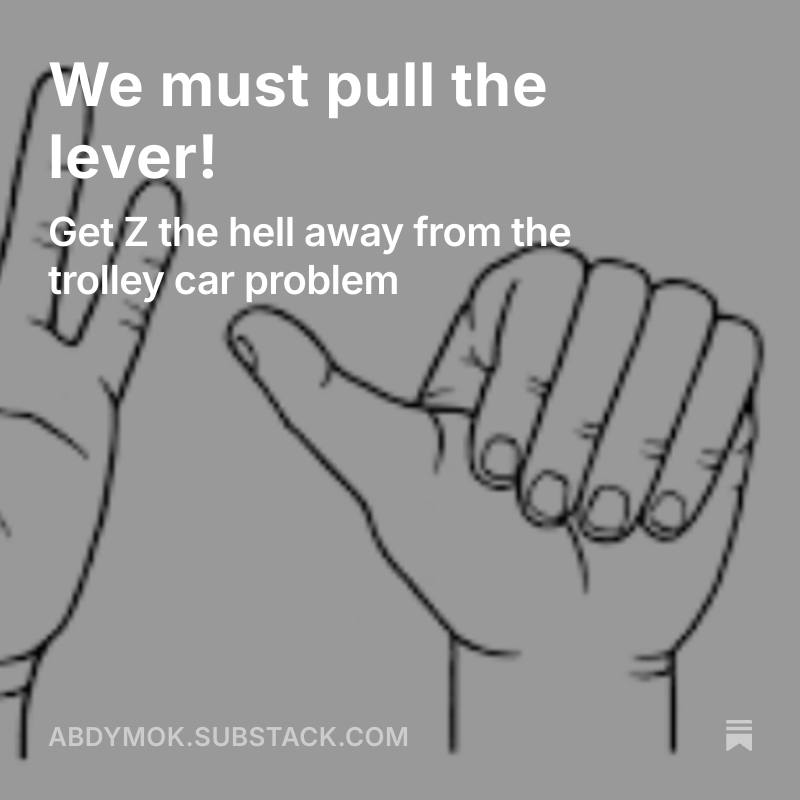
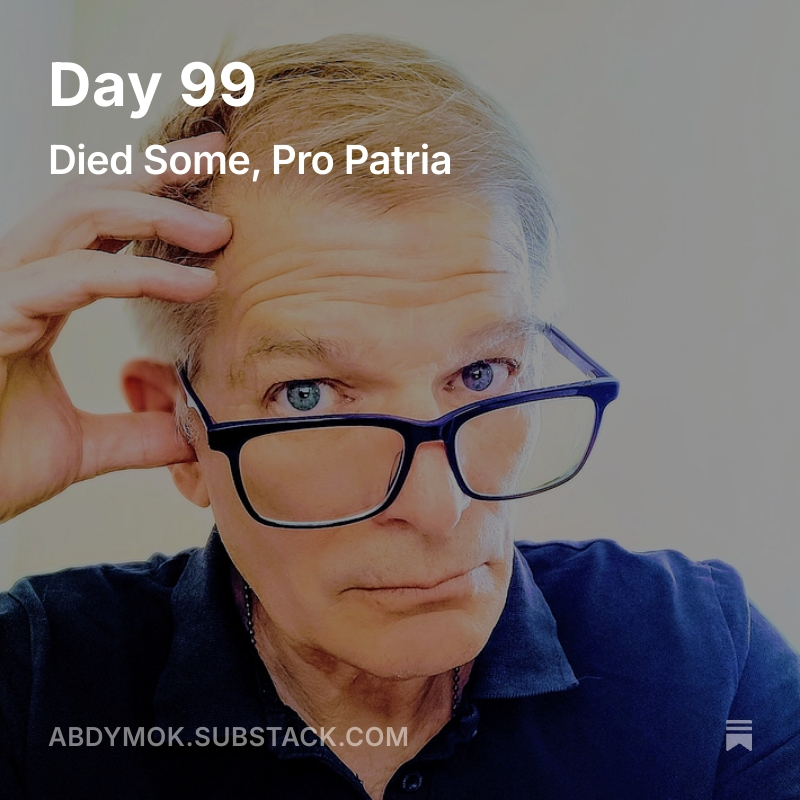
Replace shared Pro Patria asset

diff --git a/index.html b/index.html
@@ -49,7 +49,7 @@ body{font-family:Spectral,Georgia,serif;overflow:hidden}
 <div class="intro" id="intro"><img src="images/abdymok.gif" alt="abdymok"></div><div class="mural"><div class="wall" id="wall"></div></div>
 <div class="controls"><button id="recompose" class="recompose" type="button">Recompose</button><button id="pause" class="pause" type="button">Pause</button><a class="subscribe" href="https://abdymok.substack.com/" target="_blank" rel="noopener noreferrer">Subscribe</a></div>
 <script>
[1 lines of base64/hex data omitted]
+const slides=[{"id": 1, "year": 2022, "image": "images/1.jpg", "back": "Delivers an unpanicked, sober reading of invasion signals on the very first morning of the <a href=\"https://abdymok.substack.com/p/russias-further-invasion-day-1\" target=\"_blank\" rel=\"noopener noreferrer\" data-slide=\"1\">full-scale war<\/a>, cutting through media buzzwords."}, {"id": 2, "year": 2021, "image": "images/2.jpg", "back": "Warned as early as <a href=\"https://abdymok.substack.com/p/banal-murder-plot?utm_source=publication-search\" target=\"_blank\" rel=\"noopener noreferrer\" data-slide=\"2\">January 2021<\/a> that a security service consumed by internal power struggles and contraband revenue cannot simultaneously execute complex counterintelligence operations against foreign threats."}, {"id": 3, "year": 2021, "image": "images/3.jpg", "back": "Chronicles &quot;<a href=\"https://abdymok.substack.com/p/coming-to-a-theater-near-you?utm_source=publication-search\" target=\"_blank\" rel=\"noopener noreferrer\" data-slide=\"3\">Wagnergate<\/a>&quot; (Operation Avenue), exposing systemic institutional leaks and official dishonesty at the highest levels of executive leadership prior to the invasion."}, {"id": 4, "year": 2020, "image": "images/4.jpg", "back": "Exposes <a href=\"https://abdymok.substack.com/p/ukraines-plan-\" target=\"_blank\" rel=\"noopener noreferrer\" data-slide=\"4\">parliamentary cover-ups<\/a> and sanitizing investigations designed to shield executive figures from accountability over compromised intelligence operations."}, {"id": 5, "year": 2021, "image": "images/5.jpg", "back": "Uses <a href=\"https://abdymok.substack.com/p/zelenskys-new-clothes\" target=\"_blank\" rel=\"noopener noreferrer\" data-slide=\"5\">game theory<\/a> (mutual vs. common knowledge) to demonstrate how performative political theater obscured pre-war governance defects."}, {"id": 6, "year": 2022, "image": "images/6.jpg", "back": "<a href=\"https://abdymok.substack.com/p/this-is-still-ukrainewar?utm_source=publication-search\" target=\"_blank\" rel=\"noopener noreferrer\" data-slide=\"6\">Morale is high, at least in Kyiv, with private military contractors and arms suppliers in abundance. Many of them are waiting anxiously for Tootsie Club to re-open.<\/a>"}, {"id": 7, "year": 2022, "image": "images/7.jpg", "back": "Accurately discerning the <a href=\"https://abdymok.substack.com/p/day-25-phase-3?utm_source=publication-search\" target=\"_blank\" rel=\"noopener noreferrer\" data-slide=\"7\">mental amplitudes<\/a> of Ukraine’s leaders is another key assessment that should be made. No one should pretend functioning democratic institutions exist."}, {"id": 8, "year": 2022, "image": "images/8.jpg", "back": "Critiques accredited Western experts and &quot;<a href=\"https://abdymok.substack.com/p/day-115\" target=\"_blank\" rel=\"noopener noreferrer\" data-slide=\"8\">bounded rationality<\/a>&quot; models that failed to anticipate Russian strategic choices."}, {"id": 9, "year": 2022, "image": "images/9.jpg", "back": "<a href=\"https://abdymok.substack.com/p/day-22-phase-3?utm_source=publication-search\" target=\"_blank\" rel=\"noopener noreferrer\" data-slide=\"9\">I much prefer spherical cows, factoring agreements and thinking about the El Farol Bar problem than browsing battlefield posts on Telegram channels. Future projects abound, including goats, chickens, livestock guardian dogs.<\/a>"}, {"id": 10, "year": 2023, "image": "images/10.jpg", "back": "Lifts the curtain on war-adjacent commentary and opportunistic media narratives that obscure core <a href=\"https://abdymok.substack.com/p/this-is-still-ukrainewar?utm_source=publication-search\" target=\"_blank\" rel=\"noopener noreferrer\" data-slide=\"10\">operational realities<\/a>."}, {"id": 11, "year": 2023, "image": "images/11.jpg", "back": "Enumerates the three fundamental operational requirements (<a href=\"https://abdymok.substack.com/p/day-499\" target=\"_blank\" rel=\"noopener noreferrer\" data-slide=\"11\">closing the sky<\/a>, activating additional corps, and securing long-range precision strike capabilities) needed to break positional stalemate."}, {"id": 12, "year": 2023, "image": "images/12.jpg", "back": "Deconstructs early <a href=\"https://abdymok.substack.com/p/day-516\" target=\"_blank\" rel=\"noopener noreferrer\" data-slide=\"12\">counteroffensive hype<\/a> versus the unglamorous tactical realities on the ground."}, {"id": 13, "year": 2022, "image": "images/13.jpg", "back": "<a href=\"https://abdymok.substack.com/p/pause-operationnelle?utm_source=publication-search\" target=\"_blank\" rel=\"noopener noreferrer\" data-slide=\"13\">The Club for Aesthetic Disobedience, which for years has criticized “beautification projects” in the capital, describes our architectural jungle the best: a poorly lit dog’s breakfast.<\/a>"}, {"id": 14, "year": 2024, "image": "images/14.jpg", "back": "Critiques the lack of long-term <a href=\"https://abdymok.substack.com/p/day-730\" target=\"_blank\" rel=\"noopener noreferrer\" data-slide=\"14\">strategic coherence<\/a> as the full-scale conflict entered its second year."}, {"id": 15, "year": 2024, "image": "images/15.jpg", "back": "Accurately analyzes the operational dimensions of <a href=\"https://abdymok.substack.com/p/day-748\" target=\"_blank\" rel=\"noopener noreferrer\" data-slide=\"15\">positional warfare<\/a> in transparent, drone-saturated battlefields."}, {"id": 16, "year": 2024, "image": "images/16.jpg", "back": "Exposes early <a href=\"https://abdymok.substack.com/p/day-1044\" target=\"_blank\" rel=\"noopener noreferrer\" data-slide=\"16\">command-and-control failures<\/a> in newly formed formations such as the 155th Brigade."}, {"id": 17, "year": 2024, "image": "images/17.jpg", "back": "Identifies <a href=\"https://abdymok.substack.com/p/day-1049\" target=\"_blank\" rel=\"noopener noreferrer\" data-slide=\"17\">four systemic failures<\/a>—unbuilt fortifications, forced conscription defects, new brigade failures, and domestic production breakdowns—long before official acknowledgment."}, {"id": 18, "year": 2025, "image": "images/18.jpg", "back": "Analyzes the &quot;<a href=\"https://abdymok.substack.com/p/day-1402\" target=\"_blank\" rel=\"noopener noreferrer\" data-slide=\"18\">negotiation gap<\/a>,&quot; proving the logical incompatibility between Russian objectives and Ukrainian state survival."}, {"id": 19, "year": 2026, "image": "images/19.jpg", "back": "Applies the biological concept of &quot;<a href=\"https://abdymok.substack.com/p/day-1454\" target=\"_blank\" rel=\"noopener noreferrer\" data-slide=\"19\">parabiosis<\/a>&quot; to critique aging, stagnant diplomatic frameworks and political exhaustion."}, {"id": 20, "year": 2026, "image": "images/20.jpg", "back": "Decouples <a href=\"https://abdymok.substack.com/p/day-1524\" target=\"_blank\" rel=\"noopener noreferrer\" data-slide=\"20\">military resilience<\/a> from liberal democracy, arguing that societal heroism on the battlefield does not automatically equate to sound institutional governance."}, {"id": 21, "year": 2026, "image": "images/21.jpg", "back": "Provides a <a href=\"https://abdymok.substack.com/p/day-1577\" target=\"_blank\" rel=\"noopener noreferrer\" data-slide=\"21\">multi-year retrospective<\/a> detailing how the archive&#x27;s analytical models evolved and held up across milestones."}, {"id": 22, "year": 2020, "image": "images/22.jpg", "back": "Establishes the foundational critique of Ukraine as a primitive post-Soviet <a href=\"https://abdymok.substack.com/p/thug-life\" target=\"_blank\" rel=\"noopener noreferrer\" data-slide=\"22\">feudal patronage system<\/a> rather than a fully functioning institutional democracy."}, {"id": 23, "year": 2020, "image": "images/23.jpg", "back": "Demonstrates how European institutions repeatedly collided with informal <a href=\"https://abdymok.substack.com/p/thug-life-contd?s=w\" target=\"_blank\" rel=\"noopener noreferrer\" data-slide=\"23\">patronage networks<\/a> and political theatrics in Kyiv."}, {"id": 24, "year": 2021, "image": "images/24.jpg", "back": "Critiques patronage figures (e.g., Mykola Tyshchenko) as symbols of <a href=\"https://abdymok.substack.com/p/a-man-in-full\" target=\"_blank\" rel=\"noopener noreferrer\" data-slide=\"24\">institutional decay<\/a>."}, {"id": 25, "year": 2022, "image": "images/25.jpg", "back": "Maps ultra-competitive, informal <a href=\"https://abdymok.substack.com/p/thug-life-contd-315\" target=\"_blank\" rel=\"noopener noreferrer\" data-slide=\"25\">political rivalries<\/a> operating behind formal state structures."}, {"id": 26, "year": 2020, "image": "images/26.jpg", "back": "Analyzes early cabinet reshuffles (e.g., Honcharuk&#x27;s sacking) to distinguish between macroeconomic illiteracy and <a href=\"https://abdymok.substack.com/p/operation-y-b2d557374ca7\" target=\"_blank\" rel=\"noopener noreferrer\" data-slide=\"26\">political sabotage<\/a>."}, {"id": 27, "year": 2021, "image": "images/27.jpg", "back": "Maps internal fallout and paranoia within <a href=\"https://abdymok.substack.com/p/drones-in-my-bones\" target=\"_blank\" rel=\"noopener noreferrer\" data-slide=\"27\">intelligence services<\/a> following Wagnergate and associated leaks."}, {"id": 28, "year": 2021, "image": "images/28.jpg", "back": "Analyzes the corporate and tactical evolution of <a href=\"https://abdymok.substack.com/p/scale-free-wagner-pmc\" target=\"_blank\" rel=\"noopener noreferrer\" data-slide=\"28\">mercenary networks<\/a> prior to their full-scale deployment."}, {"id": 29, "year": 2021, "image": "images/29.jpg", "back": "Examines how a background in <a href=\"https://abdymok.substack.com/p/i-an-actor\" target=\"_blank\" rel=\"noopener noreferrer\" data-slide=\"29\">performance art<\/a> shaped executive decision-making and public narrative management during national crises."}, {"id": 30, "year": 2020, "image": "images/30.jpg", "back": "Confronts official government statements downplaying explicit <a href=\"https://abdymok.substack.com/p/pants-on-fire\" target=\"_blank\" rel=\"noopener noreferrer\" data-slide=\"30\">invasion warnings<\/a>."}, {"id": 31, "year": 2025, "image": "images/31.jpg", "back": "Documents the <a href=\"https://abdymok.substack.com/p/day-1246\" target=\"_blank\" rel=\"noopener noreferrer\" data-slide=\"31\">legislative rollback<\/a> of anti-corruption agency oversight and the immediate domestic political backlash."}, {"id": 32, "year": 2026, "image": "images/32.jpg", "back": "Analyzes &quot;conversations that don&#x27;t happen,&quot; showing how analysts avoid naming <a href=\"https://abdymok.substack.com/p/day-1520\" target=\"_blank\" rel=\"noopener noreferrer\" data-slide=\"32\">structural patterns<\/a> when doing so threatens prior narratives."}, {"id": 33, "year": 2026, "image": "images/33.jpg", "back": "Parses wiretaps to explain how <a href=\"https://abdymok.substack.com/p/day-1525\" target=\"_blank\" rel=\"noopener noreferrer\" data-slide=\"33\">informal authority<\/a> and backroom procurement flows operate under wartime conditions."}, {"id": 34, "year": 2026, "image": "images/34.jpg", "back": "Exposes the &quot;<a href=\"https://abdymok.substack.com/p/day-1526\" target=\"_blank\" rel=\"noopener noreferrer\" data-slide=\"34\">Dynasty<\/a>&quot; luxury estate cooperative constructed for political insiders during the height of the conflict."}, {"id": 35, "year": 2021, "image": "images/35.jpg"", "back": "Applies the &quot;<a href=\"https://abdymok.substack.com/p/ukraine-goes-coup-couphttps://abdymok.substack.com/publish/post/57591876\" target=\"_blank\" rel=\"noopener noreferrer\" data-slide=\"35\">trolley car problem<\/a>&quot; to illustrate how executive impulse control creates broad systemic instability."}, {"id": 36, "year": 2024, "image": "images/36.jpg", "back": "Critiques opportunistic religious and <a href=\"https://abdymok.substack.com/p/day-1024\" target=\"_blank\" rel=\"noopener noreferrer\" data-slide=\"36\">ideological pivots<\/a> by political actors as winter conditions intensified."}, {"id": 37, "year": 2026, "image": "images/37.jpg", "back": "Connects early <a href=\"https://abdymok.substack.com/p/day-1408\" target=\"_blank\" rel=\"noopener noreferrer\" data-slide=\"37\">Wagnergate cover-ups<\/a> to subsequent structural consolidations inside the President&#x27;s Office."}, {"id": 38, "year": 2022, "image": "images/38.jpg", "back": "Maps the pre-war linguistic and conceptual confusion between &quot;imminent&quot; and &quot;<a href=\"https://abdymok.substack.com/p/lost-in-translation\" target=\"_blank\" rel=\"noopener noreferrer\" data-slide=\"38\">inevitable<\/a>&quot; invasion warnings."}, {"id": 39, "year": "", "image": "images/39.jpg", "back": "Thank you for looking.<br><br>The archive continues."}, {"id": 40, "year": "", "image": "images/40.jpg", "back": "Until the next recomposition."}];
 const wall=document.getElementById('wall');
 const tiles=slides.map(s=>{
  const el=document.createElement('article'); el.className='tile'; el.dataset.id=s.id; el.dataset.empty=(!s.back?'true':'false');
